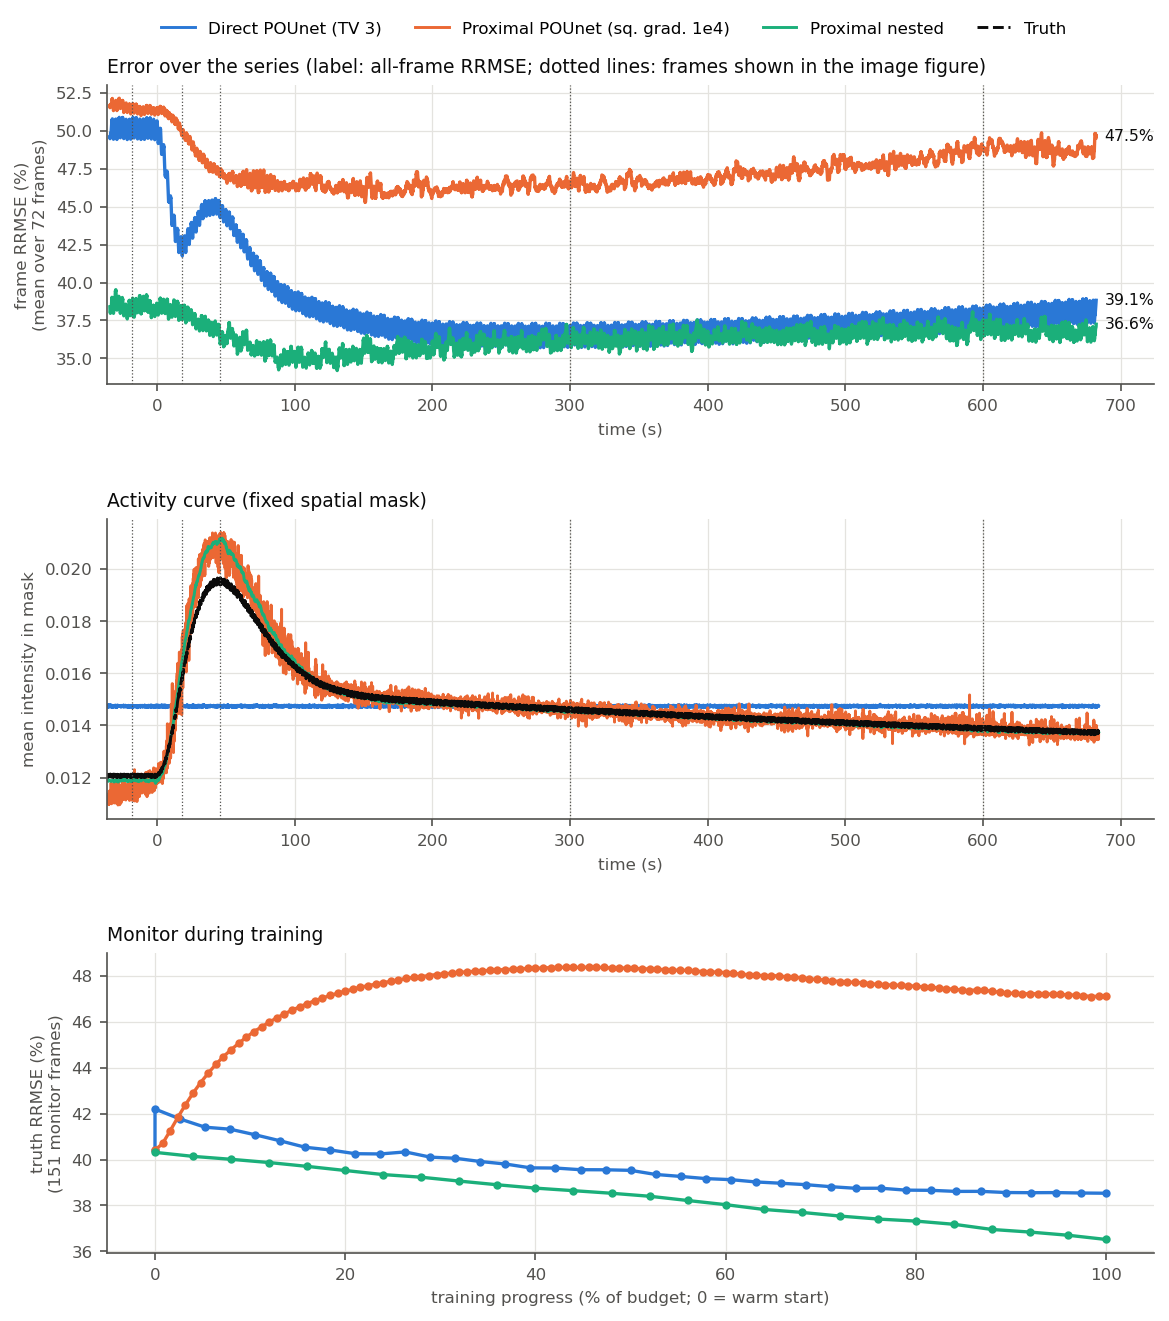
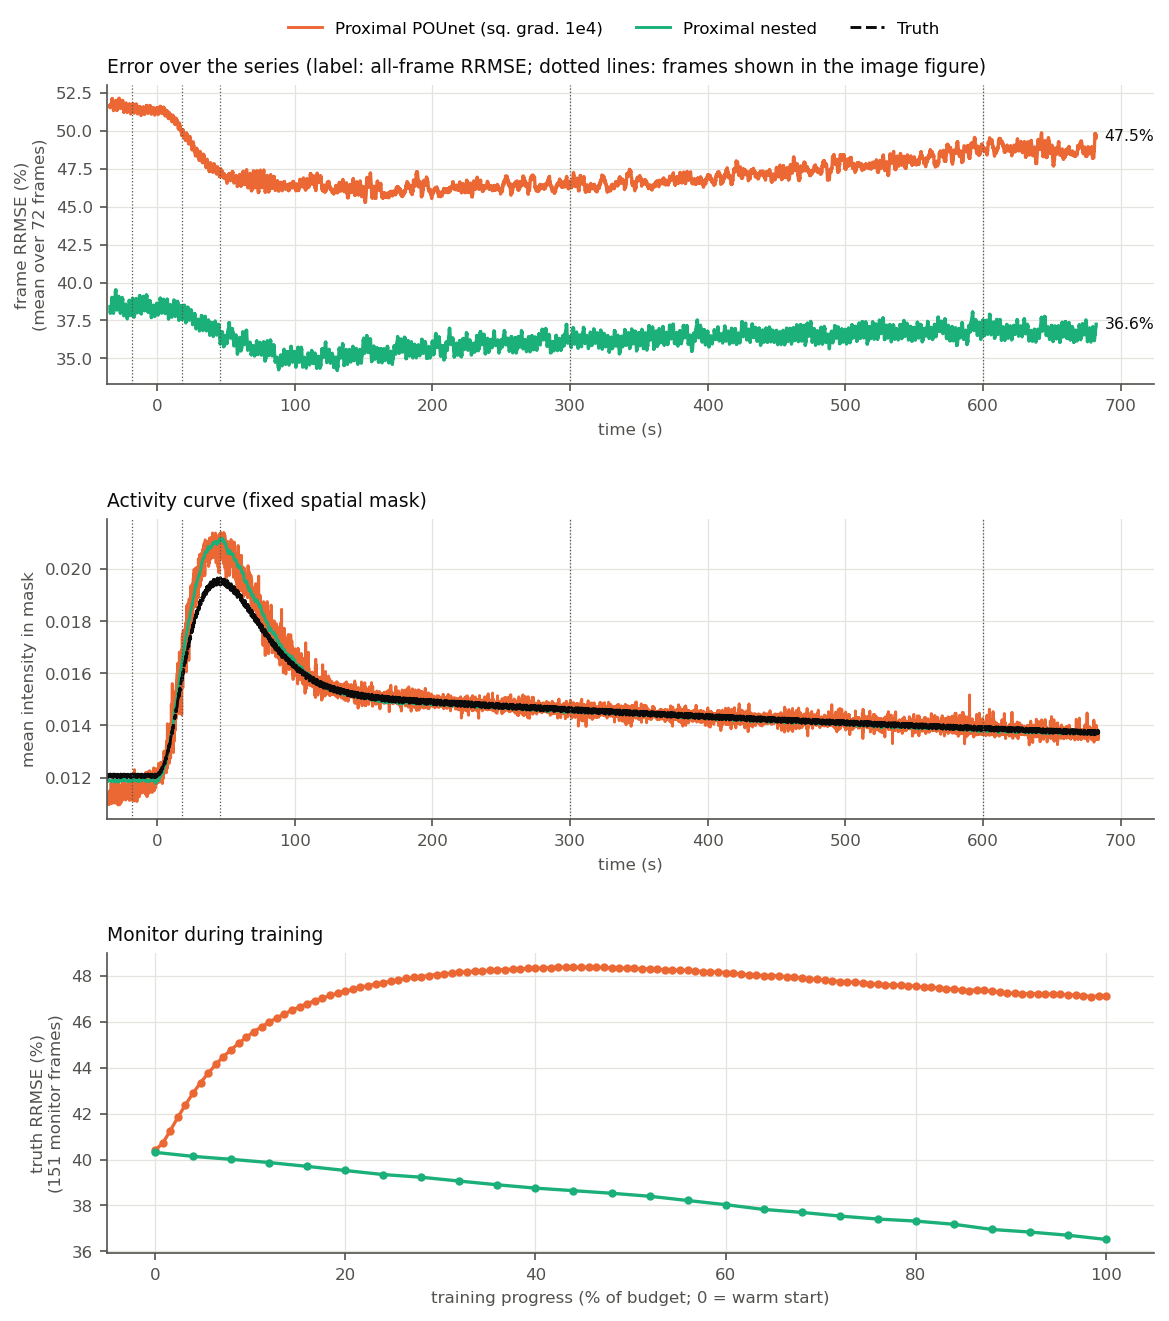
Drop direct POUnet from the whole-series comparison and redraw the figures
The direct POUnet run collapsed to a near-static image (diagnosis in PROGRESS.md);
the user dropped it from the comparison. Its config, run record and diagnosis stay.
The comparison figures now show the two proximal runs.

diff --git a/motion_static/PROGRESS.md b/motion_static/PROGRESS.md
@@ -3010,13 +3010,13 @@ Whole-series configs: `experiments/inverse/full_{direct,proximal}_{pou,nested}.j
 order: direct POUnet, proximal POUnet, proximal nested, direct nested, outputs
 `results/inverse_full_20261119_<name>/`.
 
-### Whole-series runs (2026-11-19/20): three finished, direct nested stopped, direct POUnet diagnosed
+### Whole-series runs (2026-11-19/20): three finished, direct nested stopped, direct POUnet diagnosed and dropped
 
 Runs (`results/inverse_full_20261119_<name>/`, model.pt not committed), all-frame scores:
 
 | Run | RRMSE | PSNR | SSIM | Activity-curve RRMSE | Final DF | Training |
 |---|---|---|---|---|---|---|
-| Direct POUnet (TV 3) | 39.08% | 43.34 dB | 0.982 | 9.9% | 1.561 | 0.54 h |
+| Direct POUnet (TV 3), dropped from the comparison | 39.08% | 43.34 dB | 0.982 | 9.9% | 1.561 | 0.54 h |
 | Proximal POUnet (squared gradient 1e4) | 47.50% | 41.65 dB | 0.976 | 2.7% | 1.229 | 1.32 h |
 | Proximal nested | **36.56%** | **43.92 dB** | **0.985** | **2.4%** | 1.126 | 7.79 h |
 
@@ -3031,7 +3031,8 @@ Runs (`results/inverse_full_20261119_<name>/`, model.pt not committed), all-fram
   exclude them.
 - Figures: `results/inverse_full_20261119_comparison_{frames,curves}.png`
   (`evaluation/inverse_figures.py`; per-frame RRMSE of its renders equals the saved scores to
-  1.2e-4).
+  1e-5). Since 2026-11-20 they show the two proximal runs only; the version with direct POUnet
+  is in commit 56fd43c.
 - Observations: proximal nested is still improving at its last iteration (budget-limited).
   Proximal POUnet ends worse than its warm start (monitor RRMSE 40.4% -> 47.1%, DF 1.17 ->
   1.21) and blurred. Nested against direct POUnet: lower on 68% of frames, mean gap 2.2 points,
@@ -3076,7 +3077,9 @@ and outputs):
    those penalties work against (not tested).
 
 Conclusion: the whole-series direct POUnet (39.1%) is a near-static image, not a valid
-baseline as run. Open, for the user: what to do with direct POUnet (drop it, report it as is,
-or use the original direct method); whether POUnet's per-revolution time unit should be kept
-for a 200-revolution series (it also affects proximal POUnet); a direct nested rerun (with
-checkpoints, a code change not yet made); choosing weights or stopping by held-out data.
+baseline as run. Decision (user, 2026-11-20): direct POUnet is dropped from the comparison;
+its config, run record and diagnosis stay as records, and it is not tuned further. Open, for
+the user: whether POUnet's per-revolution time unit should be kept for a 200-revolution series
+(it also affects proximal POUnet); a direct nested rerun (with checkpoints, a code change not
+yet made); choosing weights or stopping by held-out data. No run is started until the user
+says so.

diff --git a/motion_static/experiments/README.md b/motion_static/experiments/README.md
@@ -190,7 +190,8 @@ laptop on battery, which pauses the run.
 Configs in [inverse/](inverse/): `window_*` are the smoke runs on frames 1250-1400;
 `full_*` are the whole-series runs (frames 0-14400, 2026-11-19), whose penalty weights and
 nested inner rates were chosen by the truth-free window checks (PROGRESS.md). Their
-measurements: `--first-frame 0 --cycles 288` in the command above.
+measurements: `--first-frame 0 --cycles 288` in the command above. `full_direct_pou` collapsed
+to a near-static image and is not part of the comparison (kept as the record of that run).
 
 ## Usage
 
